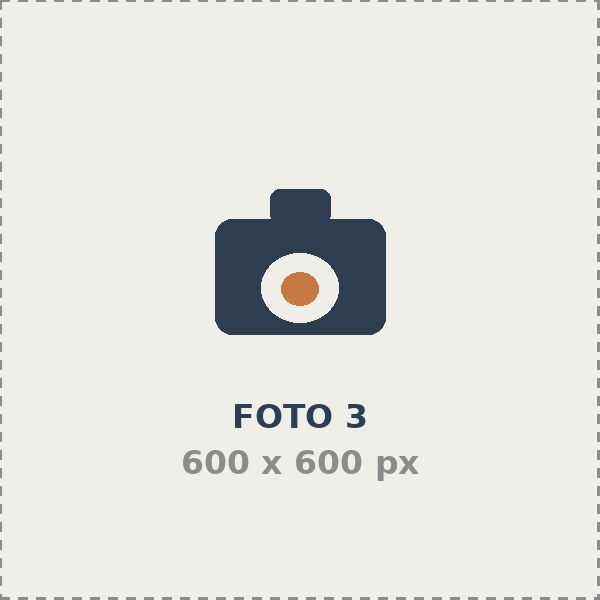
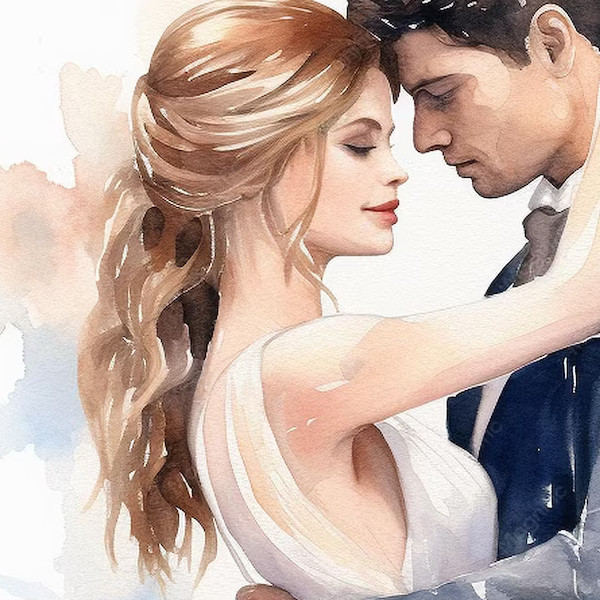
aplico patron tiny tweaks al contenido de texto

diff --git a/unidad-04-parte-responsiva/luz-clara/css/estilos.css b/unidad-04-parte-responsiva/luz-clara/css/estilos.css
@@ -1051,8 +1051,17 @@ outline-offset: 0.2rem; }
   font-size: 1.4rem;
   text-align: right;
 }
+/*tiny tweaks ,cambios bara base telefno*/
+#testimonio p,
+.cita-texto{
+  font-size: 1.6rem;
+  line-height: 1.6;
+}
+
+/*cambios para base tableta */
 
 
+/*cambio tarjeta*/
 /* 12 · TABLA           tema de la S18
 
    Lo que hace profesional a una tabla no es ningún efecto llamativo:
@@ -2208,7 +2217,15 @@ aplicar reglas segun si el dispositivo esta en vertical o horiontal */
        de encuadre.                                                   */
   }
 }
-
+/*cambios para base tableta */
+@media(min-width:768px){
+  #testimonio p{ font-size: 1.7rem ; 
+    max-width: 65ch;
+    /*el limite en la linea aparece despues de tableta*/
+  }
+  .cita {padding: var(--esp-lg);}
+  .cita-texto{font-size: 0.2rem;}
+}
 /*ahorrar tinta*/
 
 body{
@@ -2216,6 +2233,20 @@ body{
   color: black;
   font-size: 11pt;
 }
+/*cambios para base escritorio */
+@media(min-width:1024px){
+  #testimonio p{ font-size: 1.8rem ; 
+    line-height: 1.7
+    /*el limite en la linea aparece despues de escritorio*/
+  }
+  .cita {padding: var(--esp-lg);}
+  .cita-texto{font-size: 0.2rem;}
+}
+
+
+
+
+
 
 .sccion,
 .seccion-alterna{
